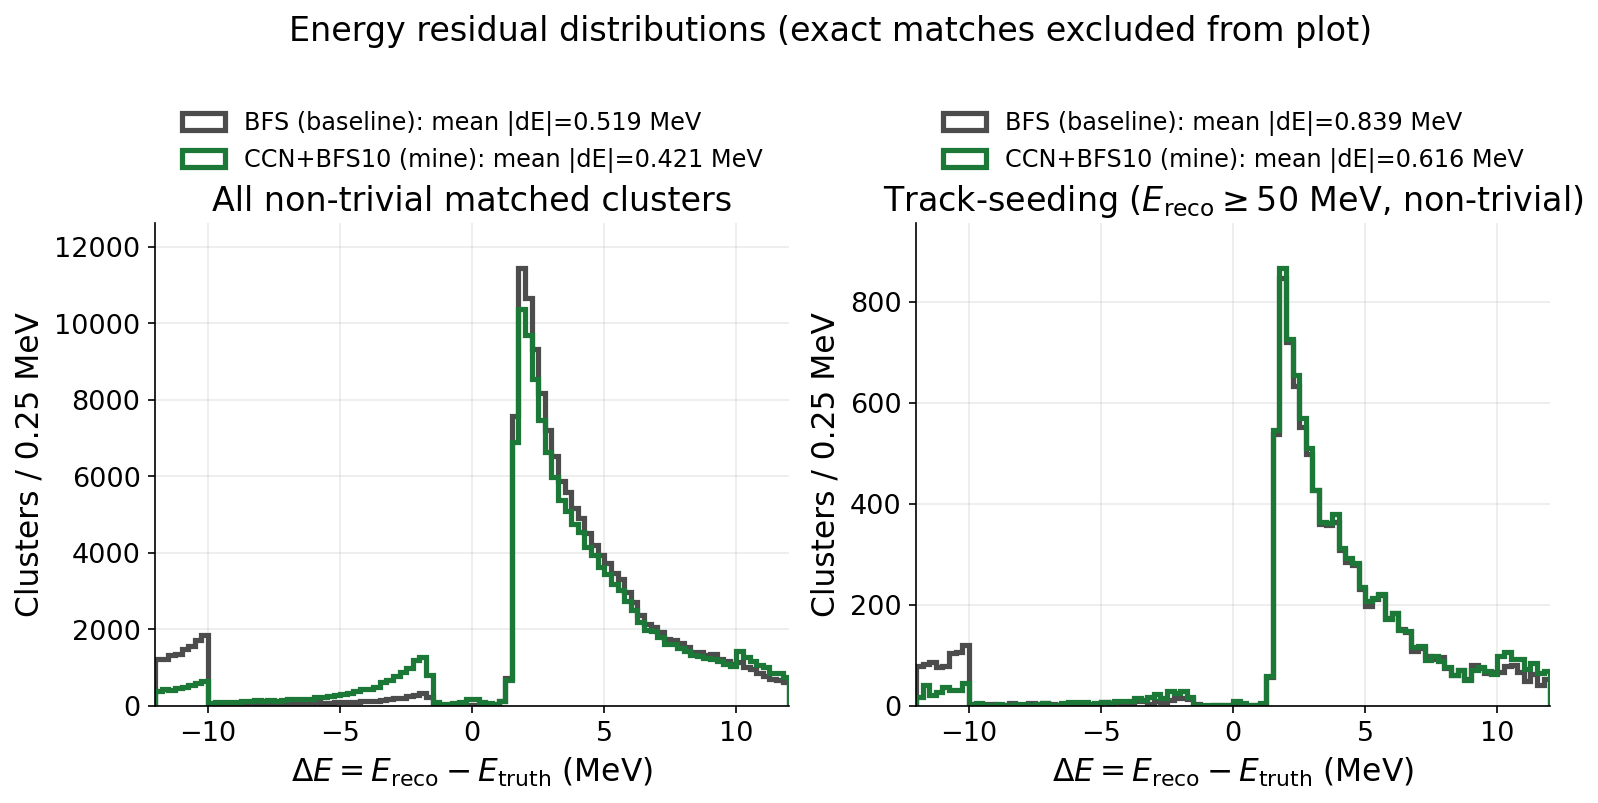
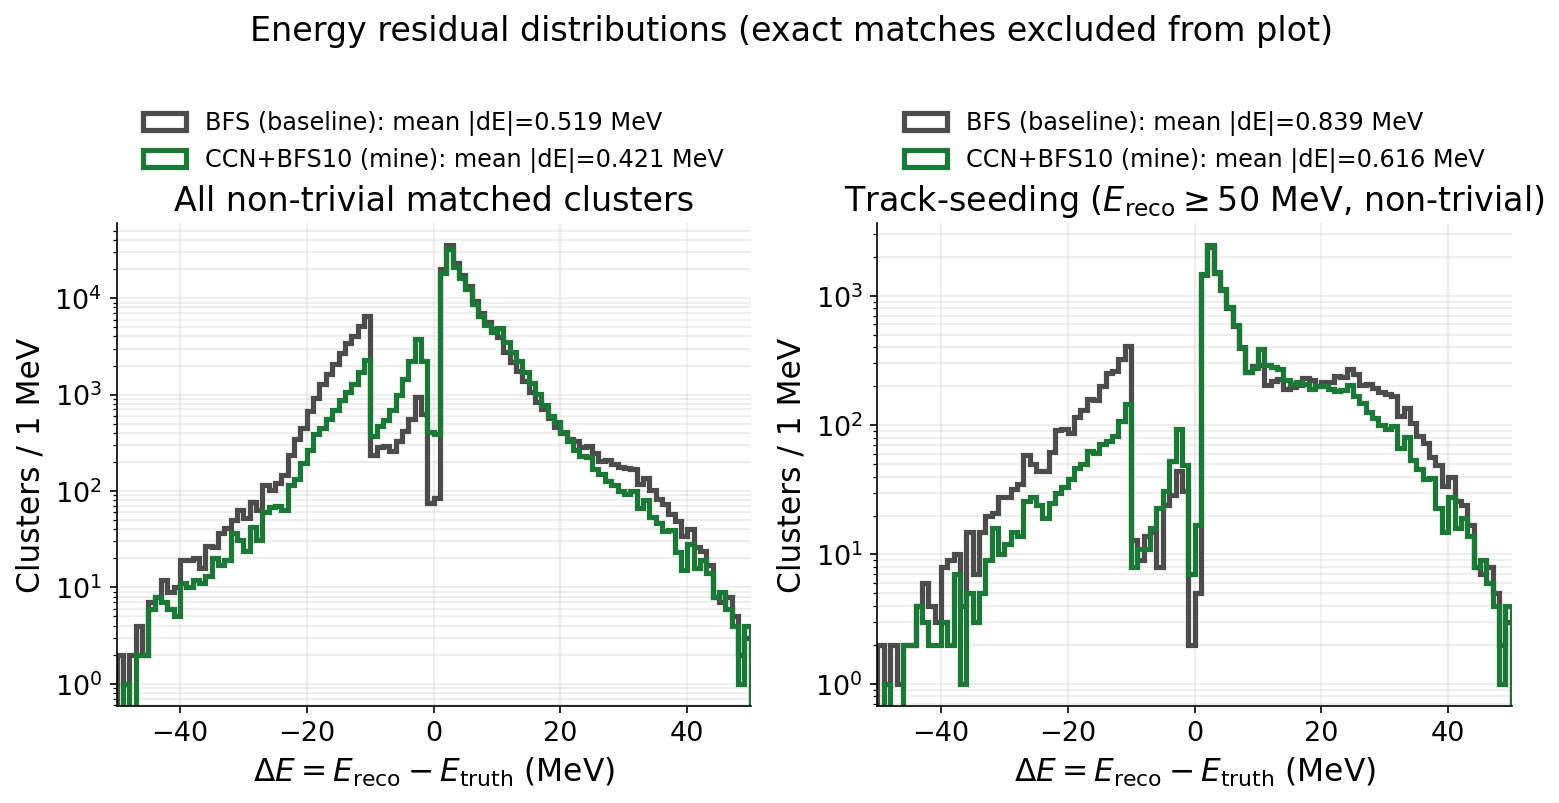
feat(slide_plots): widen dE histogram, log-y, add signal-region dr bar
Three coordinated visual changes to the AC-meeting slide figures:

- `energy_residual_hist.png`: bin range -25..25 MeV -> -50..50 MeV
  (1 MeV bins, log-y). The new range covers >99.99% of imperfect
  matches per method (per-method 99.9th-percentile |dE| ~ 40 MeV,
  99.99th ~ 49 MeV); log-y resolves the -10 MeV BFS split bump as a
  discrete order-of-magnitude shoulder rather than a small visual lump,
  and makes the heavy-tail asymmetry obvious.
- `improvement_bars.png`: add the missing "Mean dr (signal 95-110)"
  bar at -18%, matching the row already in slide 14's signal-region
  table. Without it the signal-region category had only one bar.

Both regenerate from `outputs/cluster_physics_eval_test_full/` (the
276,688-event run), so no data refresh required.

diff --git a/scripts/make_slide_plots.py b/scripts/make_slide_plots.py
@@ -99,7 +99,8 @@ def energy_residual_hist(df: pd.DataFrame) -> None:
     directly on a linear scale.
     """
     methods = ["BFS", "CCN+BFS10"]
-    bins = np.linspace(-12, 12, 97)
+    # Range covers 99.99% of imperfect dE values; 1 MeV bins keep the visual clean.
+    bins = np.linspace(-50, 50, 101)
     nonzero = df["dE"].abs() > 1e-9
 
     fig, axes = plt.subplots(1, 2, figsize=(12, 4.8))
@@ -120,14 +121,13 @@ def energy_residual_hist(df: pd.DataFrame) -> None:
                 label=f"{METHOD_LABEL[m]}: mean |dE|={overall['dE'].abs().mean():.3f} MeV",
             )
         ax.set_xlabel(r"$\Delta E = E_\mathrm{reco} - E_\mathrm{truth}$ (MeV)")
-        ax.set_ylabel("Clusters / 0.25 MeV")
+        ax.set_ylabel("Clusters / 1 MeV")
         ax.set_title(title)
-        ax.set_xlim(-12, 12)
-        ax.grid(True, alpha=0.25)
+        ax.set_xlim(-50, 50)
+        ax.set_yscale("log")
+        ax.grid(True, which="both", alpha=0.25)
         ax.legend(loc="lower center", bbox_to_anchor=(0.5, 1.06), ncol=1,
                   framealpha=0.0, fontsize=11.5, handlelength=1.8)
-        ymax = ax.get_ylim()[1]
-        ax.set_ylim(0, ymax * 1.05)
     fig.suptitle("Energy residual distributions (exact matches excluded from plot)",
                  fontsize=16, y=1.07)
     fig.subplots_adjust(top=0.78)
@@ -229,6 +229,7 @@ def improvement_bars() -> None:
         (r"95th $\Delta r$ tail",              36.4, "Track-seeding"),
         (r"Frac $|\Delta E|>10$ MeV",          30.1, "Track-seeding"),
         (r"Mean $|\Delta E|$ (signal 95–110)", 43.0, "Signal region"),
+        (r"Mean $\Delta r$ (signal 95–110)",   18.0, "Signal region"),
     ]
     cat_color = {
         "Standard":      "#4C4C4C",